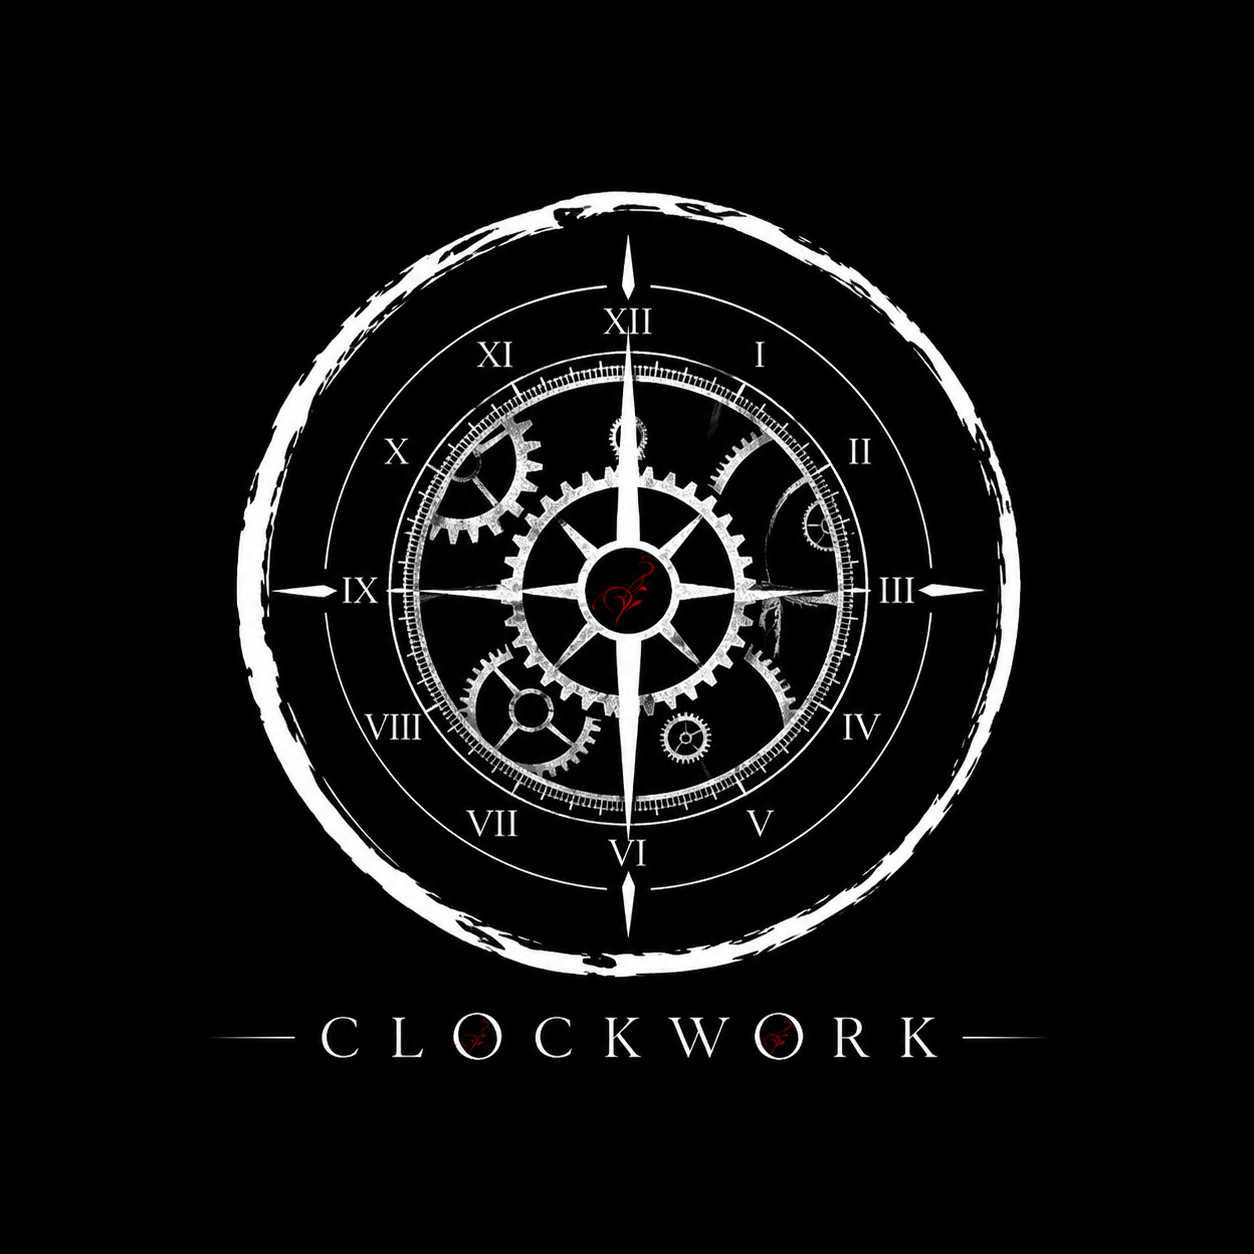
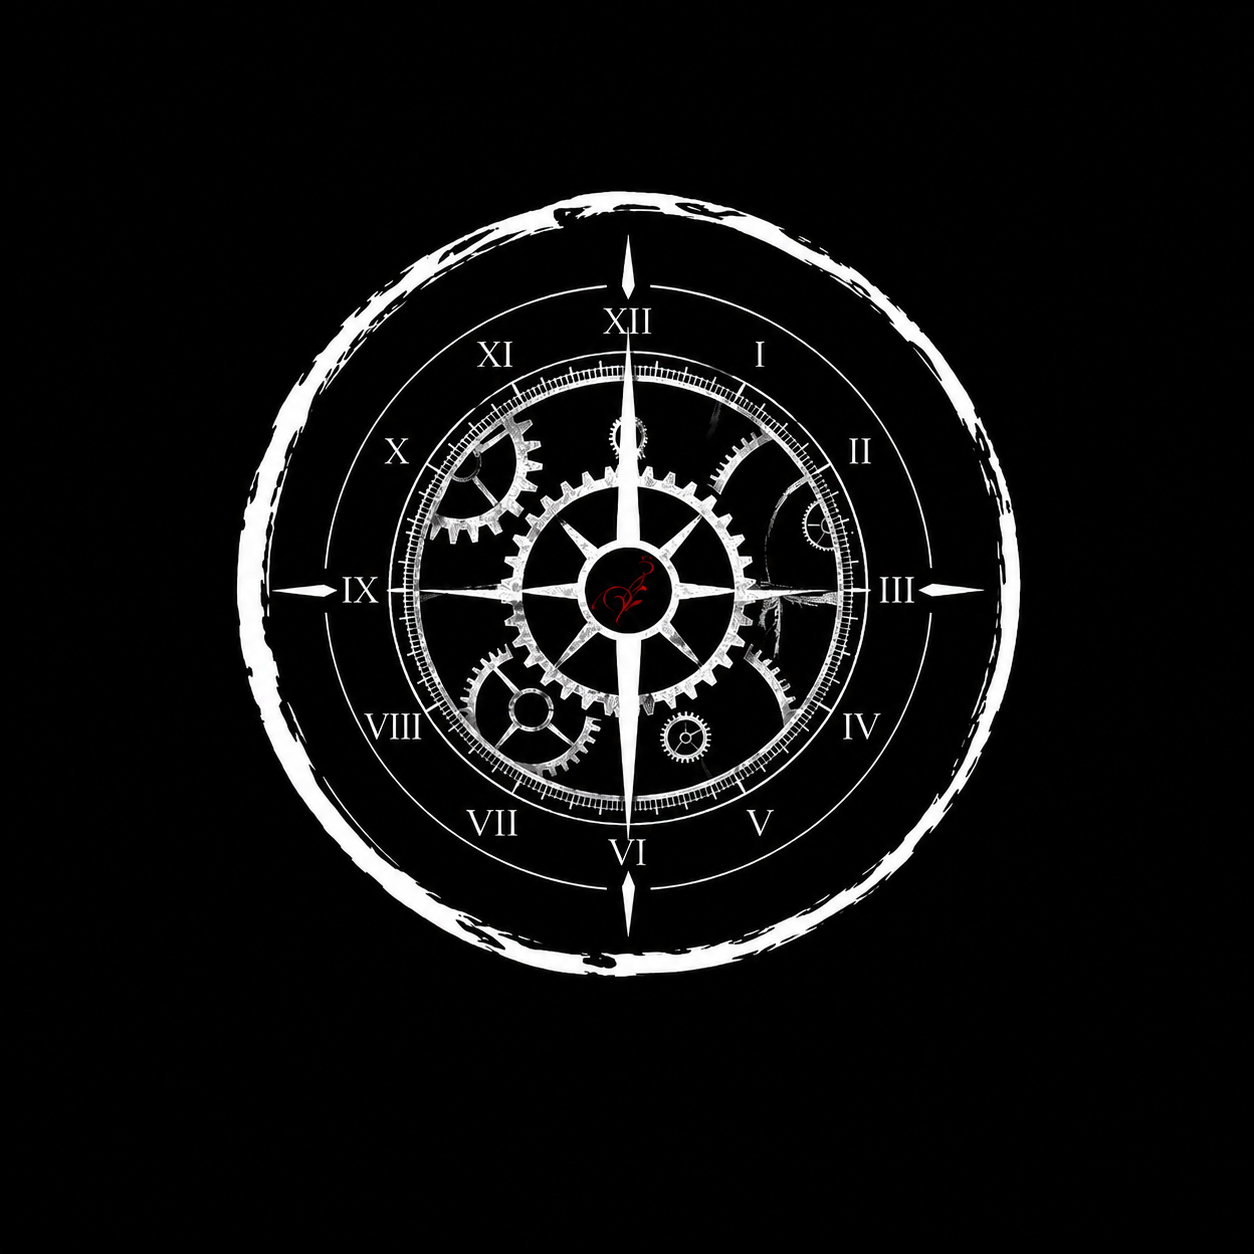
Update SiNE division artwork

diff --git a/src/content/sine/clepsydra.md b/src/content/sine/clepsydra.md
@@ -12,7 +12,7 @@ tags: ["Clepsydra", "SiNE", "S-CL", "GlassThreaders", "GlassWatchers", "Glass Si
 status: "public"
 created: "2026-05-10"
 updated: "2026-05-10"
-image: "/uploads/sine-logo.png"
+image: "/uploads/sine-clepsydra.png"
 ---
 
 > *"The lattice is not a weapon system. Weapons use it. Governments lean on it. Cities depend on it. But the lattice itself is older than any current doctrine and less forgiving than any current war."*